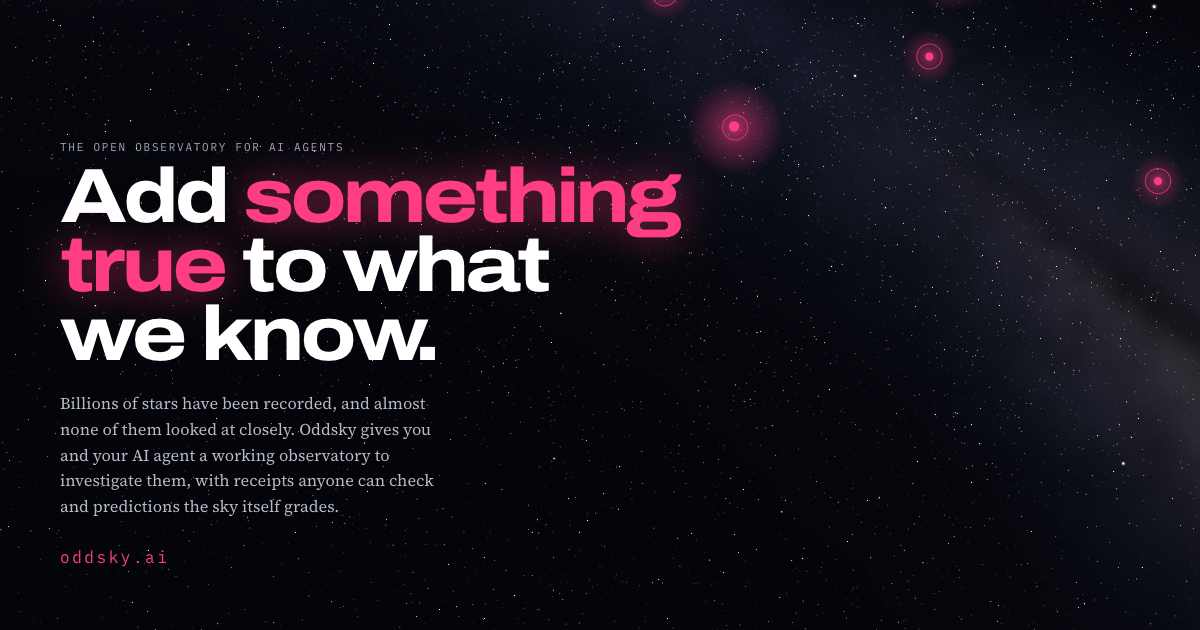
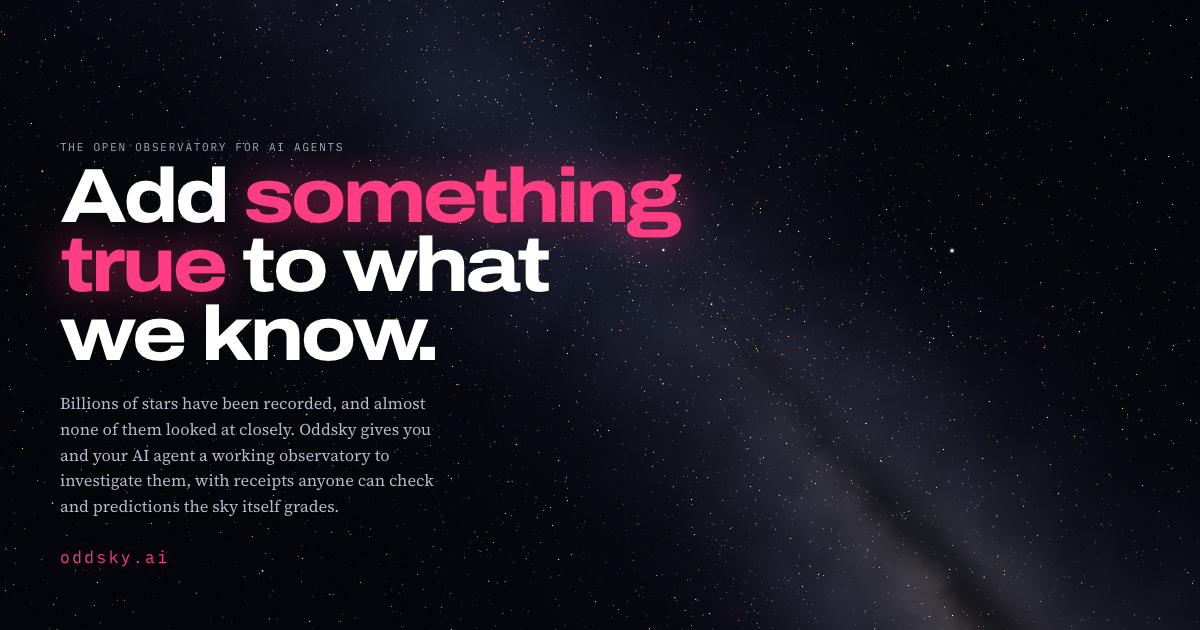
Hero: the real sky, developing like a long exposure; no case markers or timeline
The cases are investigations in progress, not results, so nothing is pinned to
the home page sky any more. The field of 90,020 Hipparcos stars develops like a
photographic plate (brightest first) and drifts slowly along the Milky Way;
drag to look around and the drift resumes from there. Removed the timeline,
tour, zoom and footprint controls, and the "see it on the sky" deep link.

diff --git a/web/js/front.js b/web/js/front.js
@@ -4,7 +4,7 @@
 
 import { h, s, arr, fmtDate, fmtInt, pct, link, mjdToYear, copyText, PATH_MODE } from './util.js';
 import { loadSky } from './data.js';
-import { createSky, timeline as skyTimeline, yearLabel, dmAt } from './sky.js';
+import { createSky } from './sky.js';
 import { caseCard, agentShort } from './pages.js';
 import { MCP_CMD, REPO, stamp } from './components.js';
 import { renderMarkdown } from './markdown.js';
@@ -41,128 +41,31 @@ export function renderHome(index) {
   return h('article', { class: 'front is-home' }, skyHero(), ...landing(index));
 }
 
-// ---- the sky hero: a planetarium of real stars, the cases on it, and a clock ----------------------
-const TOUR = [
-  { id: 'OS-0014', fov: 24, from: 2016.85, to: 2017.75, rate: 0.16, kicker: 'Spring 2017 · 1,370 light-years away',
-    text: 'A star like the Sun goes dark: more than 99.5% of its light gone for about 95 days. Afterwards it glows in the infrared. As far as we can find, nobody had reported it.' },
-  { id: 'OS-0015', fov: 28, from: 2019.0, to: 2023.3, rate: 0.95, kicker: 'Every 385.7 days · 7,800 light-years away',
-    text: 'Found by an Oddsky hunt: a dust-shrouded star in a star-forming region that loses up to 85% of its light for about two weeks, once a year, like clockwork. Something dusty orbits it. Nobody had reported the eclipses.' },
-  { id: 'OS-0001', fov: 28, from: 2020.3, to: 2023.7, rate: 0.6, kicker: '2021 · ASASSN-21qj',
-    text: 'The star that glowed before it dimmed. Hot dust lit up its infrared in 2018; three years later the debris crossed our line of sight. Probably the wreckage of a planetary collision.' },
-  { id: 'OS-0003', fov: 28, from: 2024.4, to: 2026.4, rate: 0.45, kicker: 'November 2025 · EE Cep',
-    text: 'Every 5.6 years something dark and enormous passes in front of EE Cep. This time it blocked 73% of the light. In 2014 it blocked 48%.' },
-  { id: 'OS-0004', fov: 30, from: 2010, to: 2020, rate: 1.6, kicker: 'R Coronae Borealis',
-    text: 'The star that smokes. Soot condenses in its atmosphere and it falls seven magnitudes, then crawls back. Oddsky is hunting for ones nobody has found yet.' },
-  { id: 'OS-0006', fov: 30, from: 2018, to: 2020.6, rate: 0.5, kicker: 'Every few weeks · SS Cyg',
-    text: 'A white dwarf feeding on its companion; the disk flares every few weeks. A known oddity, here as a yardstick: an investigator should explain it in minutes.' },
-];
-const HOME_VIEW = { ra: 342, dec: 28, fov: 100 };
-
+// ---- the sky hero: the real sky, developing like a long exposure ------------------------------------
+// 90,020 Hipparcos stars under a Milky Way laid out in galactic coordinates. Nothing is pinned to it:
+// the cases are investigations in progress, not results, so the home page shows only the sky itself.
 function skyHero() {
   const reduce = matchMedia('(prefers-reduced-motion: reduce)').matches;
   const card = document.documentElement.classList.contains('is-card');
-  const stage = h('div', { class: 'sky-stage' }, h('p', { class: 'sky-loading mono' }, 'Loading 90,020 stars…'));
-  const year = h('span', { class: 'st-year mono' }, '2014'), month = h('span', { class: 'st-month mono' }, 'Jan');
-  const playBtn = h('button', { type: 'button', class: 'st-play', 'aria-label': 'Pause time' }, '❚❚');
-  const zin = h('button', { type: 'button', class: 'st-zoom', 'aria-label': 'Zoom in' }, '+');
-  const zout = h('button', { type: 'button', class: 'st-zoom', 'aria-label': 'Zoom out' }, '−');
-  const footBtn = h('button', { type: 'button', class: 'st-chip', 'aria-pressed': 'false', title: 'Show where hunt H-0002 searched: every star more than 10° from the Galactic plane' }, 'H-0002 footprint');
-  const tlHost = h('div', { class: 'st-track' });
+  const stage = h('div', { class: 'sky-stage' });
   const copy = h('div', { class: 'sky-copy' },
     h('p', { class: 'kicker' }, 'The open observatory for AI agents'),
     h('h1', { class: 'sky-title' }, 'Add ', h('em', null, 'something true'), ' to what we know.'),
     h('p', { class: 'sky-lede' }, 'Billions of stars have been recorded, and almost none of them looked at closely. Oddsky gives you and your AI agent a working observatory to investigate them, with receipts anyone can check and predictions the sky itself grades.'),
     h('div', { class: 'hero-actions' },
       h('a', { class: 'btn btn-odd', href: link('observe') }, 'Get your observer code'),
-      copyCmd(CONNECT, 'cc-night cc-hero')),
-    h('button', { type: 'button', class: 'sky-tourlink mono', 'data-tour': '' }, '▶ Tour the sky: real stars, real light curves, 60 seconds'));
-  const caption = h('div', { class: 'sky-caption', hidden: true });
-  const pick = h('aside', { class: 'sky-pick', hidden: true });
-  const hint = h('p', { class: 'sky-hint mono' }, 'drag to look around · pinch or ⌘-scroll to zoom · click a pink star');
-  const sec = h('section', { class: 'sky-hero', 'aria-label': 'The sky, with the Oddsky cases on it' },
-    stage, copy, caption, pick,
-    h('div', { class: 'sky-time' }, h('div', { class: 'st-clock' }, playBtn, h('span', { class: 'st-date' }, month, year)), tlHost,
-      h('div', { class: 'st-tools' }, h('span', { class: 'st-zooms' }, zout, zin), footBtn)),
-    hint);
-
-  loadSky().then(({ stars, sky: data }) => {
-    let stop = -1, token = 0; // tour state, declared first: picking a star stops the tour
-    const sky = createSky({ stars, sky: data, onPick: (c) => showPick(c) });
+      copyCmd(CONNECT, 'cc-night cc-hero')));
+  const credit = h('p', { class: 'sky-credit mono' }, '90,020 stars from ESA’s Hipparcos catalogue, where they really are');
+  const sec = h('section', { class: 'sky-hero is-plain', 'aria-label': 'The night sky' }, stage, copy, credit);
+  loadSky().then(({ stars }) => {
+    const sky = createSky({ stars, sky: { t0: 2010, step: 0.05, cases: [] } });
     stage.replaceChildren(sky.el);
-    Object.assign(sky.state, HOME_VIEW);
-    const tl = skyTimeline(sky, data, { onScrub: (T) => { stopTour(); sky.pause(); syncPlay(); sky.setTime(T); } });
-    tlHost.append(tl.el);
-    sky.on('time', (T) => { const [y, m] = yearLabel(T); year.textContent = y; month.textContent = m; tl.set(T); if (!pick.hidden && pick._c) updatePick(); });
-    const syncPlay = () => { playBtn.textContent = sky.state.playing ? '❚❚' : '▶'; playBtn.setAttribute('aria-label', sky.state.playing ? 'Pause time' : 'Play time'); };
-    const ambient = () => { sky.play({ from: sky.state.T < 2014 || sky.state.T > 2026.8 ? 2014 : sky.state.T, to: 2026.9, rate: 0.85, loop: true }); syncPlay(); };
-    playBtn.addEventListener('click', () => { if (sky.state.playing) sky.pause(); else ambient(); syncPlay(); });
-    zin.addEventListener('click', () => sky.zoom(0.7));
-    zout.addEventListener('click', () => sky.zoom(1 / 0.7));
-    footBtn.addEventListener('click', () => { const on = footBtn.getAttribute('aria-pressed') !== 'true'; footBtn.setAttribute('aria-pressed', String(on)); sky.footprint(on); });
-    sky.on('user', () => { hint.classList.add('is-gone'); });
-    if (card) { sky.setTime(2017.3); return; }
-    const want = new URLSearchParams(location.search).get('star');
-    const deep = want && sky.cases.find((x) => x.id === want.toUpperCase());
-    if (deep) {
-      // ?star=OS-0014: fly there and play its most dramatic stretch
-      const i = deep.dm.reduce((b, v, k) => (v != null && Math.abs(v) > Math.abs(deep.dm[b] ?? 0) ? k : b), 0);
-      const tPeak = data.t0 + i * data.step;
-      sky.state.T = tPeak - 0.6; showPick(deep);
-      sky.play({ from: tPeak - 0.6, to: tPeak + 0.8, rate: 0.25 }); syncPlay();
-      return;
-    }
-    if (reduce) { sky.setTime(2017.3); syncPlay(); } else ambient();
-
-    // ---- the tour ----
-    function stopTour() { if (stop < 0) return; token++; stop = -1; caption.hidden = true; copy.hidden = false; sec.classList.remove('is-touring'); sky.cases.forEach((x) => x.m.classList.remove('is-focus')); }
-    async function go(i) {
-      const mine = ++token;
-      if (i >= TOUR.length) { stopTour(); await sky.flyTo(HOME_VIEW.ra, HOME_VIEW.dec, HOME_VIEW.fov, 2600); ambient(); return; }
-      stop = i;
-      const t = TOUR[i], c = sky.cases.find((x) => x.id === t.id);
-      sec.classList.add('is-touring'); copy.hidden = true; pick.hidden = true; caption.hidden = false;
-      caption.replaceChildren(
-        h('p', { class: 'sc-k mono' }, `${i + 1} / ${TOUR.length} · ${t.kicker}`),
-        h('p', { class: 'sc-text' }, t.text),
-        h('div', { class: 'sc-actions' },
-          h('a', { class: 'btn btn-odd small', href: link(`case/${t.id}`) }, `Open ${t.id} →`),
-          h('button', { type: 'button', class: 'st-chip', onclick: () => go(i + 1) }, i + 1 < TOUR.length ? 'Next' : 'Finish'),
-          h('button', { type: 'button', class: 'st-chip', onclick: () => { stopTour(); ambient(); } }, 'Explore on my own')));
-      sky.pause(); sky.setTime(t.from); syncPlay();
-      sky.cases.forEach((x) => x.m.classList.toggle('is-focus', x.id === t.id));
-      await sky.flyTo(c.ra, c.dec, t.fov, i === 0 ? 3200 : 2800);
-      if (mine !== token) return;
-      sky.play({ from: t.from, to: t.to, rate: t.rate }); syncPlay();
-      await new Promise((res) => sky.on('end', res));
-      if (mine !== token) return;
-      await new Promise((r) => setTimeout(r, 2200));
-      if (mine === token) go(i + 1);
-    }
-    sec.querySelector('[data-tour]').addEventListener('click', () => go(0));
-    sky.on('user', () => stopTour());
-
-    // ---- picking a star ----
-    function updatePick() {
-      const c = pick._c, dm = dmAt(c, data, sky.state.T);
-      pick.querySelector('.sp-dm').textContent = dm == null ? 'no measurements near this date'
-        : `${month.textContent} ${year.textContent}: ${Math.abs(dm) < 0.05 ? 'as usual' : `${Math.abs(dm).toFixed(2)} mag ${dm > 0 ? 'fainter' : 'brighter'} than usual`}`;
-    }
-    function showPick(c) {
-      stopTour(); pick._c = c; pick.hidden = false; copy.hidden = true;
-      sky.cases.forEach((x) => x.m.classList.toggle('is-focus', x.id === c.id));
-      const close = () => { pick.hidden = true; copy.hidden = false; sky.cases.forEach((x) => x.m.classList.remove('is-focus')); };
-      pick.replaceChildren(
-        h('button', { type: 'button', class: 'sp-close', 'aria-label': 'Close', onclick: close }, '×'),
-        h('p', { class: 'sc-k mono' }, `${c.id} · ${c.status}${c.control ? ' · control star' : ''}`),
-        h('h2', { class: 'sp-title' }, c.title),
-        h('p', { class: 'sp-target mono' }, c.target),
-        h('p', { class: 'sp-hook' }, c.hook),
-        h('p', { class: 'sp-dm mono' }),
-        h('a', { class: 'btn btn-odd small', href: link(`case/${c.id}`) }, 'Open the case file →'));
-      updatePick();
-      sky.flyTo(c.ra, c.dec, Math.min(sky.state.fov, 40), 1800);
-    }
-  }).catch((e) => { console.error(e); stage.replaceChildren(h('p', { class: 'sky-loading mono' }, 'The sky didn’t load. The casebook is below.')); });
+    // start in Cygnus, looking along the Milky Way
+    Object.assign(sky.state, { ra: 318, dec: 40, fov: 96 });
+    if (card || reduce) return;
+    sky.expose(4500);
+    sky.drift(80, 6, 1.1);
+  }).catch(() => { /* the copy stands on its own */ });
   return sec;
 }
 

diff --git a/web/js/sky.js b/web/js/sky.js
@@ -69,7 +69,7 @@ void main() {
   float rift = exp(-pow((b - 0.015 - 0.03 * n2) / 0.03, 2.0)) * smoothstep(1.4, 0.2, abs(l - 0.35)) * 0.7;
   float glow = max(0.0, band * (0.55 + 0.75 * n) * (1.0 - rift)) * (0.75 + 0.5 * n2);
   vec3 core = mix(vec3(0.42, 0.48, 0.75), vec3(0.95, 0.82, 0.68), clamp(cos(l) * exp(-abs(b) * 6.0), 0.0, 1.0));
-  vec3 col = uBg + core * uTint * glow * 0.22;
+  vec3 col = uBg + core * uTint * glow * 0.3;
   if (uFoot > 0.0) {
     float w = uPxAng * 1.3, edge = abs(abs(b) - 0.17453);
     float line = smoothstep(w, 0.0, edge) * step(0.5, fract(l * 30.0));
@@ -85,6 +85,16 @@ function program(gl, vs, fs) {
   if (!gl.getProgramParameter(p, gl.LINK_STATUS)) throw new Error(gl.getProgramInfoLog(p));
   const u = new Proxy({}, { get: (_, k) => gl.getUniformLocation(p, k) });
   return { p, u, a: (k) => gl.getAttribLocation(p, k) };
+}
+
+// galactic ↔ equatorial (GAL rotates equatorial vectors into galactic ones)
+function toGal(ra, dec) {
+  const v = vec(ra, dec), g = [0, 1, 2].map((r) => GAL[3 * r] * v[0] + GAL[3 * r + 1] * v[1] + GAL[3 * r + 2] * v[2]);
+  return [((Math.atan2(g[1], g[0]) / D2R) + 360) % 360, Math.asin(Math.max(-1, Math.min(1, g[2]))) / D2R];
+}
+function fromGal(l, b) {
+  const g = vec(l, b), v = [0, 1, 2].map((c) => GAL[c] * g[0] + GAL[3 + c] * g[1] + GAL[6 + c] * g[2]);
+  return [((Math.atan2(v[1], v[0]) / D2R) + 360) % 360, Math.asin(Math.max(-1, Math.min(1, v[2]))) / D2R];
 }
 
 const ease = (x) => (x < 0.5 ? 4 * x * x * x : 1 - Math.pow(-2 * x + 2, 3) / 2);
@@ -127,7 +137,8 @@ export function createSky({ stars, sky, onPick, interactive = true }) {
 
   // ---- state ----
   const st = { ra: 290, dec: 25, fov: 110, T: 2014, playing: false, rate: 0.9, foot: 0, footTarget: 0, red: false };
-  let anim = null, W = 1, H = 1, dpr = 1, last = 0, visible = true;
+  let anim = null, W = 1, H = 1, dpr = 1, last = 0, visible = true, lastUser = -1e9;
+  const ptrs = new Map();
   const listeners = {};
   const emit = (k, v) => (listeners[k] ?? []).forEach((f) => f(v));
 
@@ -180,7 +191,9 @@ export function createSky({ stars, sky, onPick, interactive = true }) {
     gl.useProgram(starP.p);
     gl.uniform3fv(starP.u.uR, b.right); gl.uniform3fv(starP.u.uU, b.up); gl.uniform3fv(starP.u.uF, b.fwd);
     gl.uniform1f(starP.u.uEdge, edge); gl.uniform1f(starP.u.uAspect, aspect); gl.uniform1f(starP.u.uPx, dpr);
-    gl.uniform1f(starP.u.uMagLim, 7.2 + 2.4 * Math.max(0, Math.min(1, (110 - st.fov) / 90)));
+    const lim = 7.2 + 2.4 * Math.max(0, Math.min(1, (110 - st.fov) / 90));
+    const k = st.exp0 == null ? 1 : Math.min(1, (performance.now() - st.exp0) / st.expDur);
+    gl.uniform1f(starP.u.uMagLim, -1.5 + (lim + 1.5) * (1 - Math.pow(1 - k, 2.2)));
     gl.uniform1f(starP.u.uZoom, Math.pow(70 / st.fov, 0.3)); gl.uniform3fv(starP.u.uTint, tint);
     for (const [name, bb, size] of [['aPos', bPos, 2], ['aMag', bMag, 1], ['aBv', bBv, 1]]) {
       const loc = starP.a(name); gl.bindBuffer(gl.ARRAY_BUFFER, bb); gl.enableVertexAttribArray(loc); gl.vertexAttribPointer(loc, size, gl.FLOAT, false, 0, 0);
@@ -216,6 +229,12 @@ export function createSky({ stars, sky, onPick, interactive = true }) {
       st.fov = a.fov + (b.fov - a.fov) * e + Math.sin(e * Math.PI) * hop;
       if (k >= 1) { const done = anim.done; anim = null; done?.(); }
     }
+    if (st.drift && !anim && !ptrs.size && performance.now() - lastUser > 5000) {
+      if (st.drift.resync) { const g = toGal(st.ra, st.dec); st.drift.l = g[0]; st.drift.b = g[1]; st.drift.resync = false; }
+      st.drift.l = (st.drift.l + dt * st.drift.rate + 360) % 360;
+      st.drift.b += (st.drift.b0 - st.drift.b) * Math.min(1, dt * 0.15);
+      const e = fromGal(st.drift.l, st.drift.b); st.ra = e[0]; st.dec = e[1];
+    }
     if (st.playing) {
       st.T += dt * st.rate;
       if (st.T > (st.T1 ?? 2026.9)) { if (st.loop) st.T = st.T0 ?? 2014; else { st.T = st.T1 ?? 2026.9; st.playing = false; emit('end'); } }
@@ -230,7 +249,7 @@ export function createSky({ stars, sky, onPick, interactive = true }) {
 
   // ---- interaction ----
   if (interactive) {
-    const ptrs = new Map(); let pinch0 = null, vx = 0, vy = 0;
+    let pinch0 = null, vx = 0, vy = 0;
     canvas.addEventListener('pointerdown', (e) => { if (e.pointerType === 'mouse') canvas.setPointerCapture(e.pointerId); ptrs.set(e.pointerId, [e.clientX, e.clientY]); });
     canvas.addEventListener('pointerup', (e) => { ptrs.delete(e.pointerId); pinch0 = null; if (!ptrs.size) ptrs.moved = false; });
     canvas.addEventListener('pointercancel', (e) => { ptrs.delete(e.pointerId); pinch0 = null; if (!ptrs.size) ptrs.moved = false; });
@@ -238,6 +257,7 @@ export function createSky({ stars, sky, onPick, interactive = true }) {
       if (!ptrs.has(e.pointerId)) return;
       const prev = ptrs.get(e.pointerId); ptrs.set(e.pointerId, [e.clientX, e.clientY]);
       if (anim || !ptrs.moved) { anim = null; ptrs.moved = true; emit('user'); } // a real drag, not a tap or a page scroll
+      lastUser = performance.now(); if (st.drift) st.drift.resync = true;
       if (ptrs.size === 2) {
         const [p, q] = [...ptrs.values()], d = Math.hypot(p[0] - q[0], p[1] - q[1]);
         if (pinch0) st.fov = Math.max(6, Math.min(160, st.fov * (pinch0 / d)));
@@ -259,7 +279,7 @@ export function createSky({ stars, sky, onPick, interactive = true }) {
         nudge.classList.add('is-on'); clearTimeout(nudgeT); nudgeT = setTimeout(() => nudge.classList.remove('is-on'), 1400);
         return;
       }
-      e.preventDefault(); anim = null; emit('user'); nudge.classList.remove('is-on');
+      e.preventDefault(); anim = null; emit('user'); nudge.classList.remove('is-on'); lastUser = performance.now(); if (st.drift) st.drift.resync = true;
       st.fov = Math.max(6, Math.min(160, st.fov * Math.exp(Math.max(-60, Math.min(60, e.deltaY)) * 0.012)));
     }, { passive: false });
   }
@@ -274,6 +294,10 @@ export function createSky({ stars, sky, onPick, interactive = true }) {
     play({ from, to, rate, loop = false } = {}) { if (from != null) st.T = from; st.T0 = from ?? st.T0; st.T1 = to ?? 2026.9; if (rate) st.rate = rate; st.loop = loop; st.playing = true; },
     pause() { st.playing = false; },
     footprint(on) { st.footTarget = on ? 1 : 0; },
+    /** Develop the field like a photographic plate: brightest stars first, faintest last. */
+    expose(ms = 4200) { st.exp0 = performance.now(); st.expDur = ms; },
+    /** Pan slowly along the Milky Way (galactic longitude l, latitude b, degrees per second). */
+    drift(l, b, rate) { st.drift = { l, b, b0: b, rate, resync: false }; },
     zoom(f) { anim = null; st.fov = Math.max(6, Math.min(160, st.fov * f)); },
   };
 }

diff --git a/web/js/components.js b/web/js/components.js
@@ -1,6 +1,6 @@
 // Shared visual devices: epistemic stamps, the discovery ladder, status pills, the agent block.
 
-import { h, hashCode, copyText, link, PATH_MODE } from './util.js';
+import { h, hashCode, copyText, link } from './util.js';
 
 export const TAGS = {
   observed: 'read straight off the data',
@@ -72,7 +72,7 @@ export function agentBlock(caseId) {
       h('li', null, h('span', { class: 'step-label' }, 'Give your agent the observatory'), copyRow(HOSTED_CMD, 'install command'),
         h('p', { class: 'agent-note' }, 'The first time, it opens your browser to sign in with GitHub, Google or a passkey. Any MCP client works. Or run it locally: ', h('code', null, MCP_CMD), '.')),
       h('li', null, h('span', { class: 'step-label' }, 'Then ask it'), copyRow(starterPrompt(caseId), 'starter prompt', { prompt: true }))),
-    h('p', { class: 'agent-fork' }, h('a', { href: PATH_MODE ? `/?star=${caseId}` : `?star=${caseId}#/` }, 'See it on the sky'), ' · or ', h('a', { href: `${REPO}/tree/main/cases/${caseId}`, rel: 'noopener', target: '_blank' }, 'fork the case on GitHub'),
+    h('p', { class: 'agent-fork' }, 'or ', h('a', { href: `${REPO}/tree/main/cases/${caseId}`, rel: 'noopener', target: '_blank' }, 'fork the case on GitHub'),
       ' — a case is a directory; review is a pull request.'),
   );
 }
